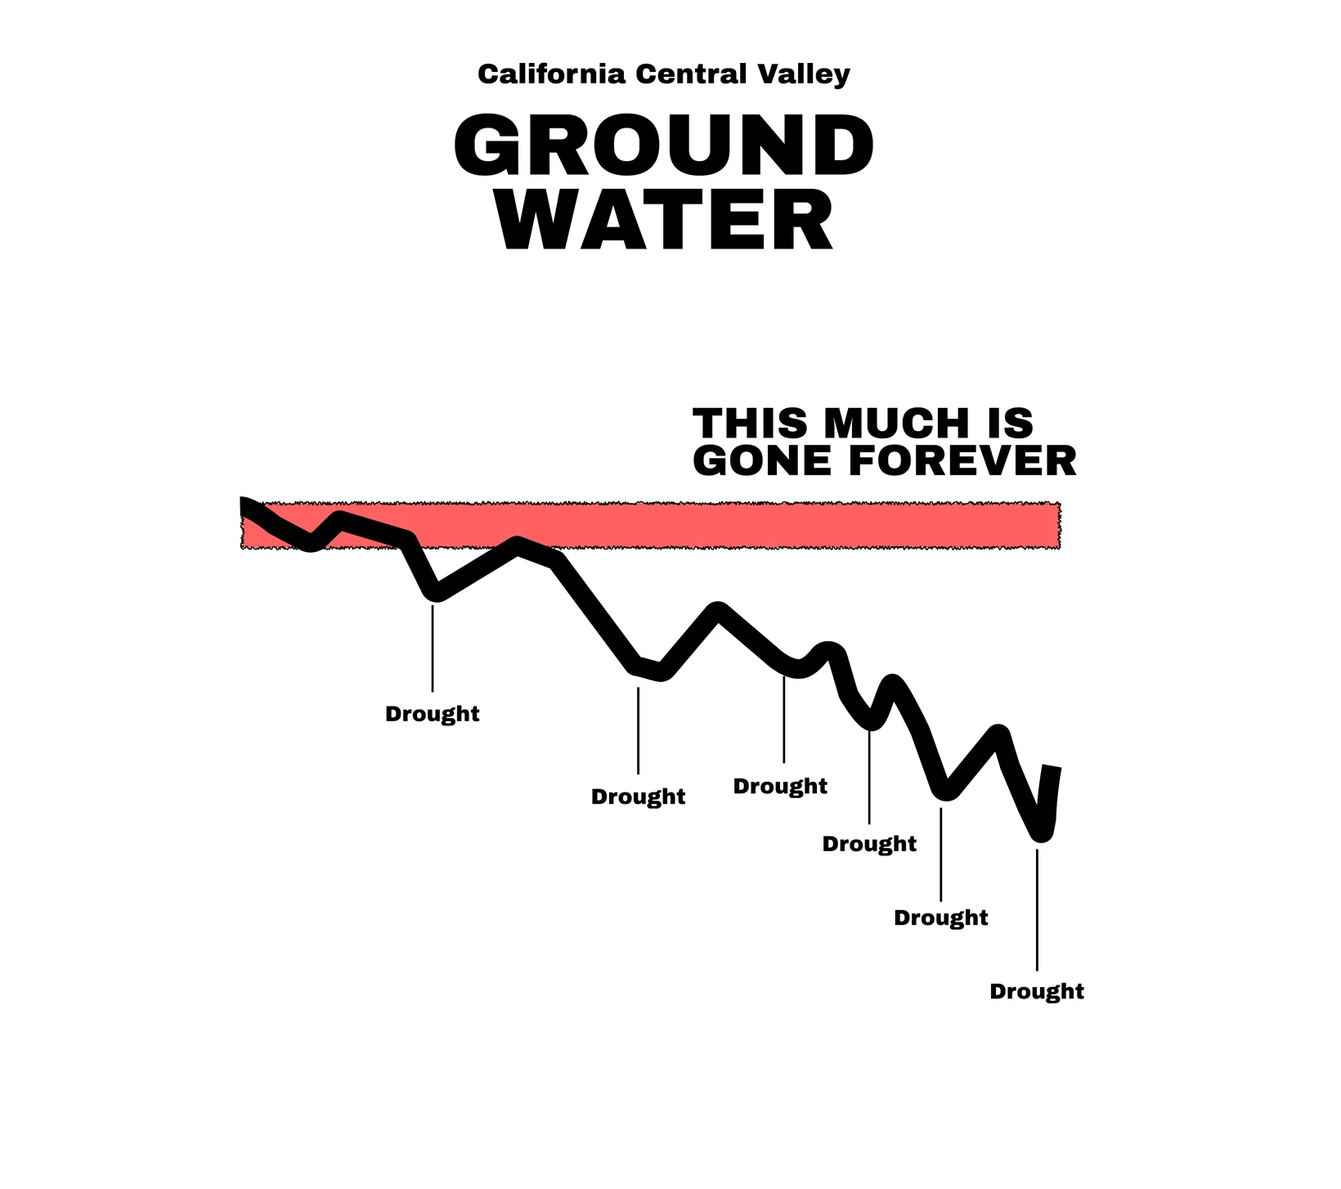
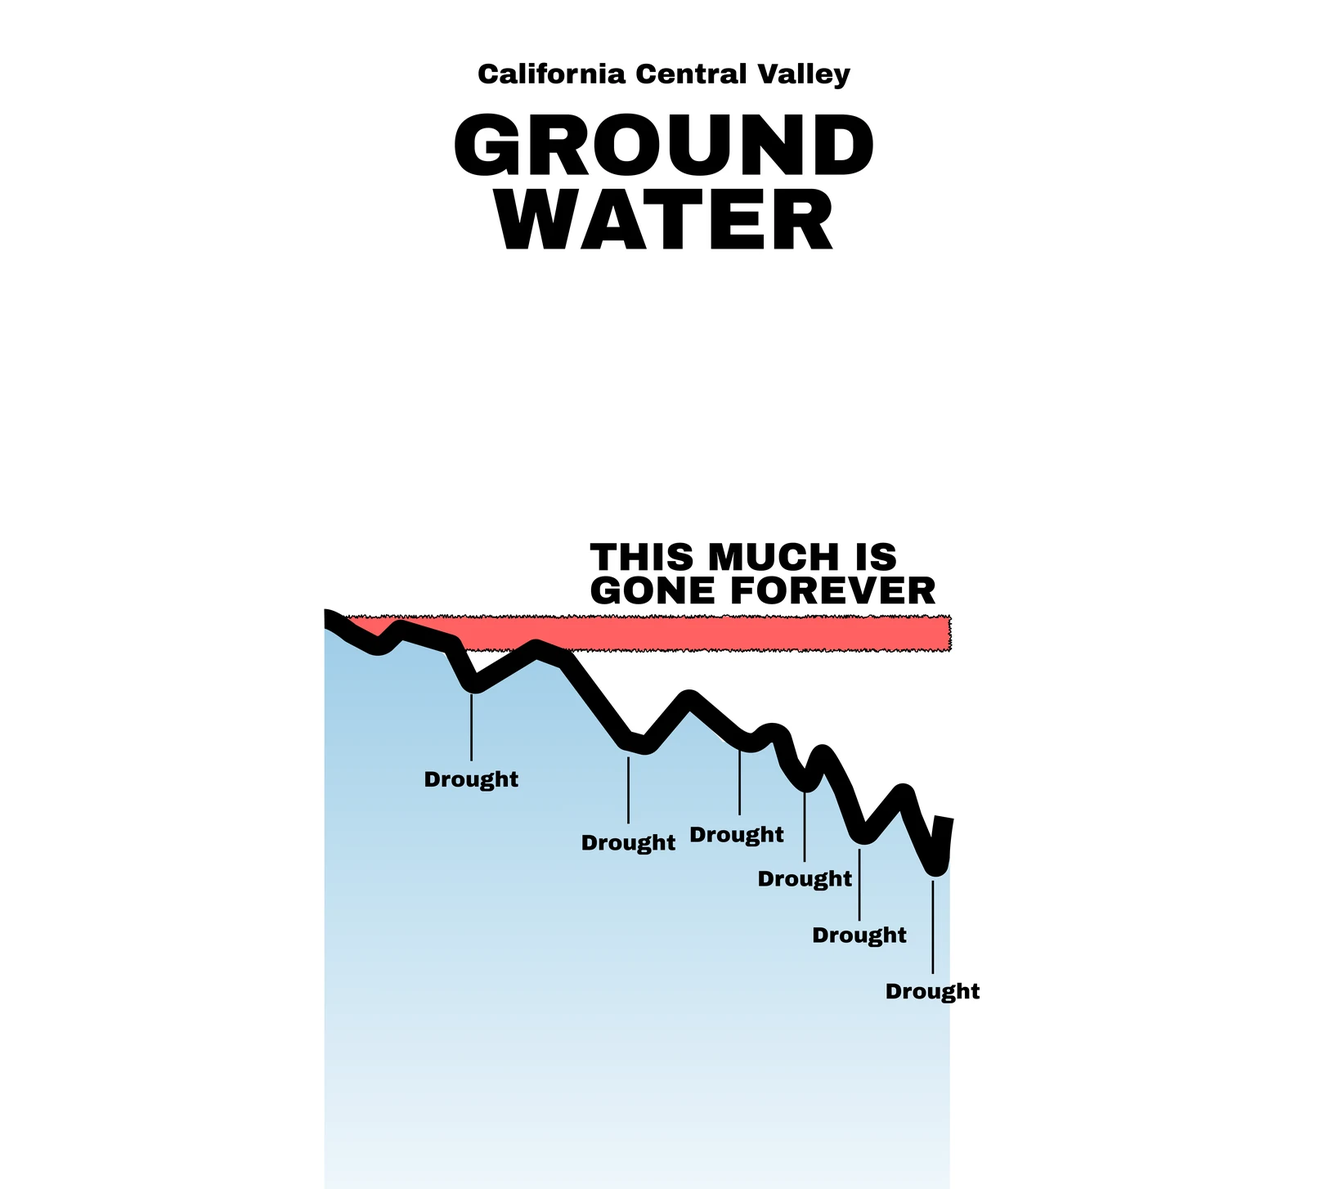
Groundwater: slide 1 variant gallery, swap in redone slides 2,3,4,6,7,12, update slide 12 caption and methods tax note
Claude-Session: https://claude.ai/code/session_01C42tfx9Hh6vAnrYvgM8gpv

Changed region(s): [[0.1555, 0.3404, 0.8085, 0.9594]]

diff --git a/climate-data/california-groundwater/index.html b/climate-data/california-groundwater/index.html
@@ -11,11 +11,11 @@
 <meta property="og:title" content="California Groundwater Crisis: how long will the water last? | Owen Mulhern">
 <meta property="og:description" content="A 12-slide data series linking California groundwater depletion to agriculture's reliance on it, the revenue it supports and the cost of dry wells to the public, with methods, sources and limits in plain language.">
 <meta property="og:url" content="https://getmulhern.com/climate-data/california-groundwater/">
-<meta property="og:image" content="https://getmulhern.com/assets/groundwater/gw-01.webp">
+<meta property="og:image" content="https://getmulhern.com/assets/groundwater/gw-01a.webp">
 <meta name="twitter:card" content="summary_large_image">
 <link rel="icon" type="image/png" sizes="32x32" href="/assets/images/favicon-32.png">
 <link rel="icon" type="image/png" href="/assets/images/favicon.png">
-<link rel="stylesheet" href="/assets/css/site.css?v=20261002b">
+<link rel="stylesheet" href="/assets/css/site.css?v=20261015a">
 </head>
 <body>
 
@@ -68,8 +68,9 @@
   <dl class="project-facts"><div><dt>Year</dt><dd>Independent work, 2026</dd></div><div><dt>Role</dt><dd>Research, analysis and design, done hands-on by me</dd></div><div><dt>Tools</dt><dd>Python, Google Sheets, Figma</dd></div><div><dt>Data</dt><dd>USGS CVHM, NASA GRACE (via DWR), DWR dry-well records</dd></div></dl>
   <div class="viewer" id="slides">
     <div class="viewer-stage">
-      <img class="viewer-img" id="v-img" src="/assets/groundwater/gw-01.webp" alt="Chart of Central Valley groundwater storage from 1960 to 2020: a blue block with a thin red band at the top marking what has been lost, and a note that about 202 years are left." width="1640" height="1454" decoding="async">
+      <img class="viewer-img" id="v-img" src="/assets/groundwater/gw-01a.webp" alt="Chart of Californian agriculture&#x27;s groundwater from 1960 to 2020: a blue block with a thin red band at the top marking what has been lost, an arrow to a note that about 202 years are left, and a note that it took a long time to fill." width="1640" height="1454" decoding="async">
     </div>
+    <div class="viewer-variants" id="v-variants" hidden></div>
     <div class="viewer-body">
       <div class="viewer-controls">
         <p class="viewer-counter" id="v-counter">1 / 12</p>
@@ -152,7 +153,7 @@
 
 <script>
 (function () {
-  var P = [{"src": "/assets/groundwater/gw-01.webp", "alt": "Chart of Central Valley groundwater storage from 1960 to 2020: a blue block with a thin red band at the top marking what has been lost, and a note that about 202 years are left.", "title": "Californian agriculture's groundwater", "desc": "The blue block is the Central Valley's stored groundwater; the red band is the part that is not coming back. An estimated 788 km\u00b3 remained in 2023, and satellite data show storage falling by about 3.9 km\u00b3 a year (the 2006 to 2023 trend). At that rate it lasts about 202 years from 2023, to around 2225. That is a straight-line projection of total storage, not of usable water (see the next slide), and other trend windows give roughly 200 to 245 years (see the methods). The deep layers took a very long time to fill and shallower layers cycle much faster, so there is no single fill time."}, {"src": "/assets/groundwater/gw-02.webp", "alt": "The same groundwater block shaded from light blue at the top to dark blue-grey at the bottom, with an arrow labelled less usable pointing down.", "title": "Water in the ground isn't water you can use", "desc": "This one isn't a measurement, it's the idea behind the last chart. The 202 years counts every drop stored underground, but the aquifer won't stay usable until the last one. The deeper you have to pump, the more it costs and the worse the quality tends to get. Deeper water can carry naturally occurring contaminants such as arsenic. Pollution from human activity, nitrate from fertilizer in particular, sits in the shallow layers and gets pulled further down as pumping increases. So the water that is affordable and safe to drink would run short well before the 202 years are up. The shading is there to show that idea and carries no data."}, {"src": "/assets/groundwater/gw-03.webp", "alt": "Line chart of Central Valley groundwater storage falling across six labelled droughts, with a red band showing storage that has been permanently lost.", "title": "This much is gone forever", "desc": "Pump groundwater out fast enough and the empty pockets underground can collapse on themselves. The ground sinks, which is called subsidence, and the space that used to hold water is crushed for good. A USGS study found that in California's Central Valley about 15% of the groundwater storage lost so far is permanent. That is not a fixed rule, it is what the pumping here has produced, and it is what the red band shows. Each drought speeds the loss up, and the collapsed part does not come back."}, {"src": "/assets/groundwater/gw-04.webp", "alt": "The same line chart extended into a grey panel labelled Future, probably, where a dashed line keeps falling and the permanently lost red area grows.", "title": "The same curve, projected forward", "desc": "The previous chart, extended forward. The grey panel is a projection, not observed data, which is why it is labelled 'probably'. Storage lost to compaction does not return, so each future drought adds to the red area instead of resetting it."}, {"src": "/assets/groundwater/gw-05.webp", "alt": "Stacked bars from 1960 to 2020: agriculture in red makes up almost all Central Valley groundwater use, with cities in blue as a thin band on top.", "title": "Where groundwater goes", "desc": "Agriculture accounts for the large majority of Central Valley groundwater use, roughly nine-tenths across 1960 to 2020, as simulated by the Central Valley Hydrologic Model. Cities draw the remainder."}, {"src": "/assets/groundwater/gw-06.webp", "alt": "Bar chart from 2002 to 2022 of agricultural groundwater use in red, under a dotted blue line for total water use.", "title": "Agriculture's reliance", "desc": "Groundwater is one part of agriculture's total water supply, and how much it carries changes from year to year. The dotted line is total water use; the red bars are the part pumped from underground."}, {"src": "/assets/groundwater/gw-07.webp", "alt": "The same chart with the tallest red bar labelled 70% and drought peaks.", "title": "Agriculture's reliance, drought peak marked", "desc": "The same chart, with the peak marked. At the drought peak, groundwater supplies about 70% of agriculture's total water. Surface water shortfalls are largely made up by pumping deeper into aquifers, accelerating depletion exactly when conditions are most stressed."}, {"src": "/assets/groundwater/gw-08.webp", "alt": "Bar chart of reported dry wells per month from 2012 to 2026 in black, with smaller spikes around 2014 to 2016 and two much larger spikes in 2021 and 2022, over the red agricultural groundwater bars.", "title": "It's drying locals' water", "desc": "Reported dry wells spike in droughts. The black bars count reports to the State's dry-well reporting system by the month the problem began: smaller peaks around 2014 to 2016, then the largest in 2021 and 2022, topping out at 283 reports in July 2021. The spikes line up with the spikes in agricultural groundwater use (the red bars). That suggests wells don't go dry from the drought alone: a drought pushes agriculture to pump more groundwater, and that extra pumping is what pulls the water table below household wells. Reporting is voluntary, so these counts are a floor."}, {"src": "/assets/groundwater/gw-09.webp", "alt": "Stacked bars of reported dry wells coloured by outcome (resolved in green, interim solution in blue, outage in red), with the 2012 to 2016 drought boxed and a note that the count is reported and a strong underestimate.", "title": "One drought, at least 2,600 households short of water", "desc": "The boxed years mark the 2012 to 2016 drought, arguably one of the worst California has seen. In that single drought, at least 2,600 households that depend on wells were left short of water (Public Policy Institute of California): no reliable water for cooking, showering or any other daily need. Colours show where each report stands now: outage (red), interim solution (blue) or resolved (green). Reporting is voluntary, so counts are a floor."}, {"src": "/assets/groundwater/gw-10.webp", "alt": "Three rows of dry-well reports by outcome, each with a cost: resolved, about $54,000 per well, state and community; interim solution, state funded, $55 to $1,100 a month; unresolved, fend for yourself, $100 to $600 a month.", "title": "What dry wells cost whom", "desc": "Households with a dry well end up in one of three places, and each costs someone different. Some get a replacement well or a connection, about $54,000 per well on average, usually paid by the state. Some get an interim solution, bottled water or a tank with hauled water, at about $55 to $1,100 a month to the state. The rest are left to fend for themselves, paying for bottled and trucked water and laundromats out of their own pocket, about $100 to $600 a month based on documented spending from 2015 to 2024. The counts are self-reported, so they likely undercount."}, {"src": "/assets/groundwater/gw-11.webp", "alt": "Single bar of 2020 California agricultural water use: almonds and pistachios 32.2%, other perennial tree crops 24.6%, other agricultural products 43.2%, with part of the bar marked as exported.", "title": "Where the water went in 2020", "desc": "Of the irrigation water applied to California crops in 2020, 32.2% went to almonds and pistachios and 24.6% to other perennials. These are long-lived trees that need water every year, droughts included, so farms can't simply stop irrigating when water gets scarce. Other crops took the remaining 43.2%. The bracket marks the part going to exported crops; it is indicative, not a measured share."}, {"src": "/assets/groundwater/gw-12.webp", "alt": "Bar comparing almond revenue of $4.95 billion and pistachio revenue of $2.93 billion, both marked exported and untaxed, against a total of $61 billion a year in agricultural revenue.", "title": "Agricultural revenue", "desc": "Almond and pistachio revenue set against total agricultural production value of about $61 billion a year. That total is a statewide California figure (the 2024 value was reported at $61.2 billion), not a Central Valley one. 'Untaxed' is shorthand: the US Constitution bars taxes on goods in the course of export, which does not mean farm income or land goes untaxed. 'Mostly untaxed' for the rest is a characterisation and is not quantified here."}];
+  var P = [{"src": "/assets/groundwater/gw-01a.webp", "alt": "Chart of Californian agriculture's groundwater from 1960 to 2020: a blue block with a thin red band at the top marking what has been lost, an arrow to a note that about 202 years are left, and a note that it took a long time to fill.", "title": "Californian agriculture's groundwater", "desc": "The blue block is the Central Valley's stored groundwater; the red band is the part that is not coming back. An estimated 788 km\u00b3 remained in 2023, and satellite data show storage falling by about 3.9 km\u00b3 a year (the 2006 to 2023 trend). At that rate it lasts about 202 years from 2023, to around 2225. That is a straight-line projection of total storage, not of usable water (see the next slide), and other trend windows give roughly 200 to 245 years (see the methods). The deep layers took a very long time to fill and shallower layers cycle much faster, so there is no single fill time.", "variants": [{"label": "Variant 1", "src": "/assets/groundwater/gw-01a.webp", "alt": "Chart of Californian agriculture's groundwater from 1960 to 2020: a blue block with a thin red band at the top marking what has been lost, an arrow to a note that about 202 years are left, and a note that it took a long time to fill."}, {"label": "Variant 2", "src": "/assets/groundwater/gw-01b.webp", "alt": "Chart of California Central Valley groundwater from 1960 to 2023: a tall blue block shaded darker toward the bottom, a thin red band marked as not coming back, and a note that about 245 years are left."}, {"label": "Variant 3", "src": "/assets/groundwater/gw-01c.webp", "alt": "Chart of Central Valley groundwater storage from 1960 to 2020: a blue block with a thin red band at the top marking what has been lost, and a note that about 202 years are left."}]}, {"src": "/assets/groundwater/gw-02.webp", "alt": "The same groundwater block shaded from light blue at the top to dark blue-grey at the bottom, with an arrow labelled less usable pointing down.", "title": "Water in the ground isn't water you can use", "desc": "This one isn't a measurement, it's the idea behind the last chart. The 202 years counts every drop stored underground, but the aquifer won't stay usable until the last one. The deeper you have to pump, the more it costs and the worse the quality tends to get. Deeper water can carry naturally occurring contaminants such as arsenic. Pollution from human activity, nitrate from fertilizer in particular, sits in the shallow layers and gets pulled further down as pumping increases. So the water that is affordable and safe to drink would run short well before the 202 years are up. The shading is there to show that idea and carries no data."}, {"src": "/assets/groundwater/gw-03.webp", "alt": "Line chart of Central Valley groundwater storage falling across six labelled droughts, with a red band showing storage that has been permanently lost.", "title": "This much is gone forever", "desc": "Pump groundwater out fast enough and the empty pockets underground can collapse on themselves. The ground sinks, which is called subsidence, and the space that used to hold water is crushed for good. A USGS study found that in California's Central Valley about 15% of the groundwater storage lost so far is permanent. That is not a fixed rule, it is what the pumping here has produced, and it is what the red band shows. Each drought speeds the loss up, and the collapsed part does not come back."}, {"src": "/assets/groundwater/gw-04.webp", "alt": "The same line chart extended into a grey panel labelled Future, probably, where a dashed line keeps falling and the permanently lost red area grows.", "title": "The same curve, projected forward", "desc": "The previous chart, extended forward. The grey panel is a projection, not observed data, which is why it is labelled 'probably'. Storage lost to compaction does not return, so each future drought adds to the red area instead of resetting it."}, {"src": "/assets/groundwater/gw-05.webp", "alt": "Stacked bars from 1960 to 2020: agriculture in red makes up almost all Central Valley groundwater use, with cities in blue as a thin band on top.", "title": "Where groundwater goes", "desc": "Agriculture accounts for the large majority of Central Valley groundwater use, roughly nine-tenths across 1960 to 2020, as simulated by the Central Valley Hydrologic Model. Cities draw the remainder."}, {"src": "/assets/groundwater/gw-06.webp", "alt": "Bar chart from 2002 to 2022 of total farm water usage (100%), with the groundwater share in red filling the lower part of each bar.", "title": "Farms are dependent on groundwater", "desc": "Groundwater is one part of agriculture's total water supply, and how much it carries changes from year to year. The dotted line is total water use; the red bars are the part pumped from underground."}, {"src": "/assets/groundwater/gw-07.webp", "alt": "The same chart with the tallest red bar labelled 70% and the drought peak marked.", "title": "Farms are dependent on groundwater, drought peak marked", "desc": "The same chart, with the peak marked. At the drought peak, groundwater supplies about 70% of agriculture's total water. Surface water shortfalls are largely made up by pumping deeper into aquifers, accelerating depletion exactly when conditions are most stressed."}, {"src": "/assets/groundwater/gw-08.webp", "alt": "Bar chart of reported dry wells per month from 2012 to 2026 in black, with smaller spikes around 2014 to 2016 and two much larger spikes in 2021 and 2022, over the red agricultural groundwater bars.", "title": "It's drying locals' water", "desc": "Reported dry wells spike in droughts. The black bars count reports to the State's dry-well reporting system by the month the problem began: smaller peaks around 2014 to 2016, then the largest in 2021 and 2022, topping out at 283 reports in July 2021. The spikes line up with the spikes in agricultural groundwater use (the red bars). That suggests wells don't go dry from the drought alone: a drought pushes agriculture to pump more groundwater, and that extra pumping is what pulls the water table below household wells. Reporting is voluntary, so these counts are a floor."}, {"src": "/assets/groundwater/gw-09.webp", "alt": "Stacked bars of reported dry wells coloured by outcome (resolved in green, interim solution in blue, outage in red), with the 2012 to 2016 drought boxed and a note that the count is reported and a strong underestimate.", "title": "One drought, at least 2,600 households short of water", "desc": "The boxed years mark the 2012 to 2016 drought, arguably one of the worst California has seen. In that single drought, at least 2,600 households that depend on wells were left short of water (Public Policy Institute of California): no reliable water for cooking, showering or any other daily need. Colours show where each report stands now: outage (red), interim solution (blue) or resolved (green). Reporting is voluntary, so counts are a floor."}, {"src": "/assets/groundwater/gw-10.webp", "alt": "Three rows of dry-well reports by outcome, each with a cost: resolved, about $54,000 per well, state and community; interim solution, state funded, $55 to $1,100 a month; unresolved, fend for yourself, $100 to $600 a month.", "title": "What dry wells cost whom", "desc": "Households with a dry well end up in one of three places, and each costs someone different. Some get a replacement well or a connection, about $54,000 per well on average, usually paid by the state. Some get an interim solution, bottled water or a tank with hauled water, at about $55 to $1,100 a month to the state. The rest are left to fend for themselves, paying for bottled and trucked water and laundromats out of their own pocket, about $100 to $600 a month based on documented spending from 2015 to 2024. The counts are self-reported, so they likely undercount."}, {"src": "/assets/groundwater/gw-11.webp", "alt": "Single bar of 2020 California agricultural water use: almonds and pistachios 32.2%, other perennial tree crops 24.6%, other agricultural products 43.2%, with part of the bar marked as exported.", "title": "Where the water went in 2020", "desc": "Of the irrigation water applied to California crops in 2020, 32.2% went to almonds and pistachios and 24.6% to other perennials. These are long-lived trees that need water every year, droughts included, so farms can't simply stop irrigating when water gets scarce. Other crops took the remaining 43.2%. The bracket marks the part going to exported crops; it is indicative, not a measured share."}, {"src": "/assets/groundwater/gw-12.webp", "alt": "Bar comparing almond revenue of $4.95 billion and pistachio revenue of $2.93 billion, both marked exported, against a total of $61 billion a year in farm revenue. The exported crops are labelled untaxed and the rest low taxes.", "title": "Farm revenue", "desc": "Almond and pistachio revenue set against California's total agricultural production value of about $61 billion a year (the 2024 figure was reported at $61.2 billion). That is a statewide number, not a Central Valley one. Crops sold abroad carry no export tax, because the US Constitution bars taxing goods in the course of export. Farmland also gets tax breaks: land under California's Williamson Act, for example, is assessed on its farming value rather than its market value."}];
   var cur = 0;
   var img = document.getElementById('v-img'), ttl = document.getElementById('v-title'),
       dsc = document.getElementById('v-desc'), cnt = document.getElementById('v-counter'),
@@ -164,14 +165,33 @@
     b.addEventListener('click', function () { show(i); });
     dots.appendChild(b);
   });
+  var vbox = document.getElementById('v-variants');
+  function renderVariants(p) {
+    vbox.innerHTML = '';
+    if (!p.variants) { vbox.hidden = true; return; }
+    vbox.hidden = false;
+    p.variants.forEach(function (v) {
+      var b = document.createElement('button');
+      b.type = 'button';
+      b.className = 'viewer-variant' + (v.src === img.getAttribute('src') ? ' active' : '');
+      b.textContent = v.label;
+      b.addEventListener('click', function () {
+        img.src = v.src; img.alt = v.alt;
+        Array.prototype.forEach.call(vbox.children, function (c) { c.classList.toggle('active', c === b); });
+      });
+      vbox.appendChild(b);
+    });
+  }
   function show(i) {
     cur = (i + P.length) % P.length;
     var p = P[cur];
     img.src = p.src; img.alt = p.alt;
+    renderVariants(p);
     ttl.textContent = p.title; dsc.textContent = p.desc;
     cnt.textContent = (cur + 1) + ' / ' + P.length;
     Array.prototype.forEach.call(dots.children, function (d, j) { d.classList.toggle('active', j === cur); });
     (new Image()).src = P[(cur + 1) % P.length].src;
+    if (P[cur].variants) P[cur].variants.forEach(function (v) { (new Image()).src = v.src; });
   }
   document.getElementById('v-prev').addEventListener('click', function () { show(cur - 1); });
   document.getElementById('v-next').addEventListener('click', function () { show(cur + 1); });
@@ -180,6 +200,7 @@
     if (e.key === 'ArrowLeft') show(cur - 1);
     if (e.key === 'ArrowRight') show(cur + 1);
   });
+  renderVariants(P[0]);
   var h = location.hash.match(/^#slide-(\d+)$/);
   if (h) show(parseInt(h[1], 10) - 1);
 })();

diff --git a/groundwater-methods/index.html b/groundwater-methods/index.html
@@ -433,7 +433,7 @@ footer a:hover { border-color: var(--ink); }
   <section class="method" id="revenue">
     <h2>11. Revenue and tax</h2>
     <p><span class="tag tag-doc">Documented</span> The $61 billion total is California's agricultural production value, reported as $61.2 billion for 2024 (<a href="#src-ag61">Valley Ag Voice</a>). It is a statewide figure, not a Central Valley one.</p>
-    <p>"Untaxed" is shorthand. The US Constitution bars taxes on goods in the course of export (Article I, Sections 9 and 10), so exports cannot be taxed as exports. That does not mean farm income or land goes untaxed. "Mostly untaxed" for the rest of the sector is my characterisation and is not quantified here.</p>
+    <p>The US Constitution bars taxes on goods in the course of export (Article I, Sections 9 and 10), so crops sold abroad carry no export tax. That does not exempt the income they earn. Farmland also gets tax breaks: land under the Williamson Act is assessed on its farming value rather than its market value. The slide labels the rest of the sector "Low taxes", a characterisation that is not quantified here.</p>
   </section>
 
   <section class="method" id="sources">

diff --git a/assets/css/site.css b/assets/css/site.css
@@ -1193,3 +1193,11 @@ a.email-card:focus-visible, a.work-item:focus-visible, a.article-item:focus-visi
 @media (max-width: 640px) { .read-article { padding: 20px 18px; } .read-article p, .read-article li { font-size: 16px; } }
 .clip-card { position: relative; cursor: pointer; }
 .clip-card .clip-title a::after, .clip-card .clip-link::after { content: ""; position: absolute; inset: 0; z-index: 1; }
+
+/* slide variants (first slide) */
+.viewer-variants { display: flex; flex-wrap: wrap; gap: 8px; padding: 12px 28px; border-top: 1px solid var(--rule); }
+.viewer-variant { font: inherit; font-size: 12px; letter-spacing: 0.04em; padding: 6px 14px; background: transparent; color: var(--muted); border: 1px solid var(--rule); cursor: pointer; }
+.viewer-variant:hover { border-color: var(--ink); color: var(--ink); }
+.viewer-variant.active { background: var(--ink); border-color: var(--ink); color: #fff; }
+.viewer-variants[hidden] { display: none; }
+@media (max-width: 640px) { .viewer-variants { padding: 10px 18px; } }
